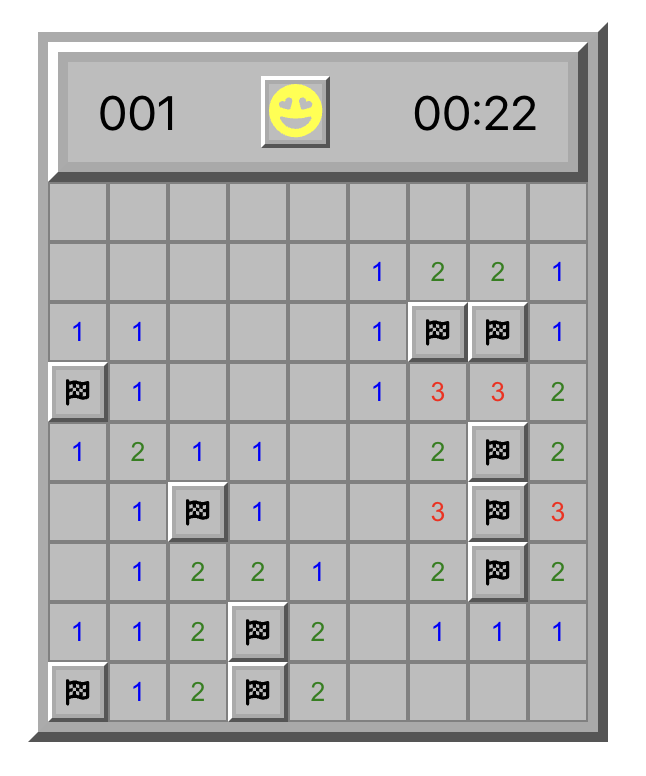
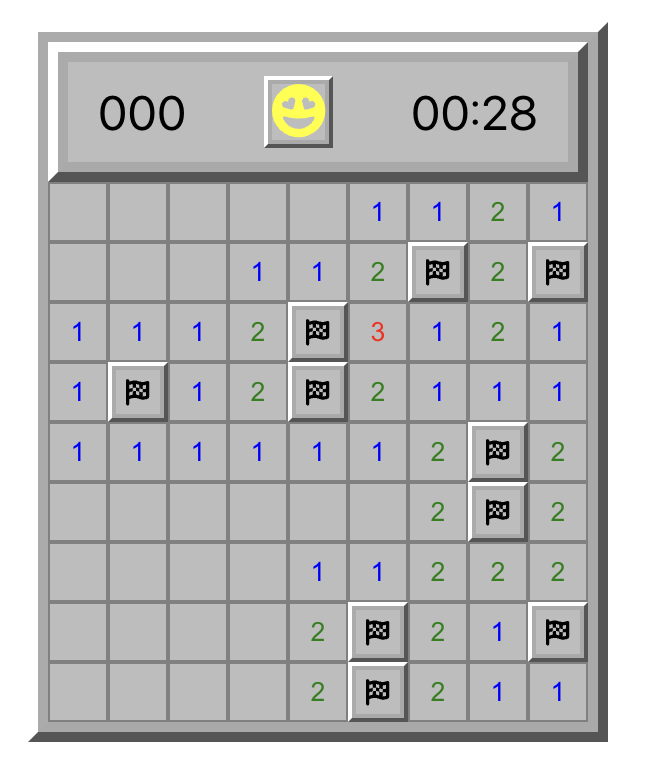
fix: counter reads 000 on a reveal-win
When the game is won by revealing the last safe cell, record the
auto-placed mine flags in the flag set so the mines-remaining counter
reaches 0 (previously it could rest at the manual flag count, e.g. 001).

Also update the README gameplay screenshot.

diff --git a/src/context/BoardContext/BoardContext.tsx b/src/context/BoardContext/BoardContext.tsx
@@ -92,13 +92,14 @@ export function BoardProvider({
     const boardComplete = isRevealWin(boardClone);
 
     if (boardComplete) {
-      // put flags on all mines
+      // Flag every mine and record it so the mines-remaining counter reads 0.
       const rowLength = boardClone[0].length;
       for (const mineId of activeMines) {
         const col = mineId % boardClone[0].length;
         const row = Math.floor(mineId / rowLength);
         boardClone[row][col].type = CellType.Flagged;
       }
+      setFlags([...activeMines]);
     }
 
     setBoard(boardClone);

diff --git a/CHANGELOG.md b/CHANGELOG.md
@@ -13,7 +13,9 @@ and this project adheres to [Semantic Versioning](https://semver.org/spec/v2.0.0
   counted flags up from `000`; it now starts at the mine total and decrements
   as you flag, going negative when over-flagging (classic Minesweeper). Flag
   tracking is derived from the board's flag set rather than a separate
-  hand-maintained counter, removing a stale-closure update bug.
+  hand-maintained counter, removing a stale-closure update bug. Winning by
+  revealing the last safe cell now also flags the mines in the counter, so it
+  reads `000` on every win.
 - **The timer no longer re-renders every second while idle.** The clock now
   ticks only while the game is active and freezes on win or loss.
 